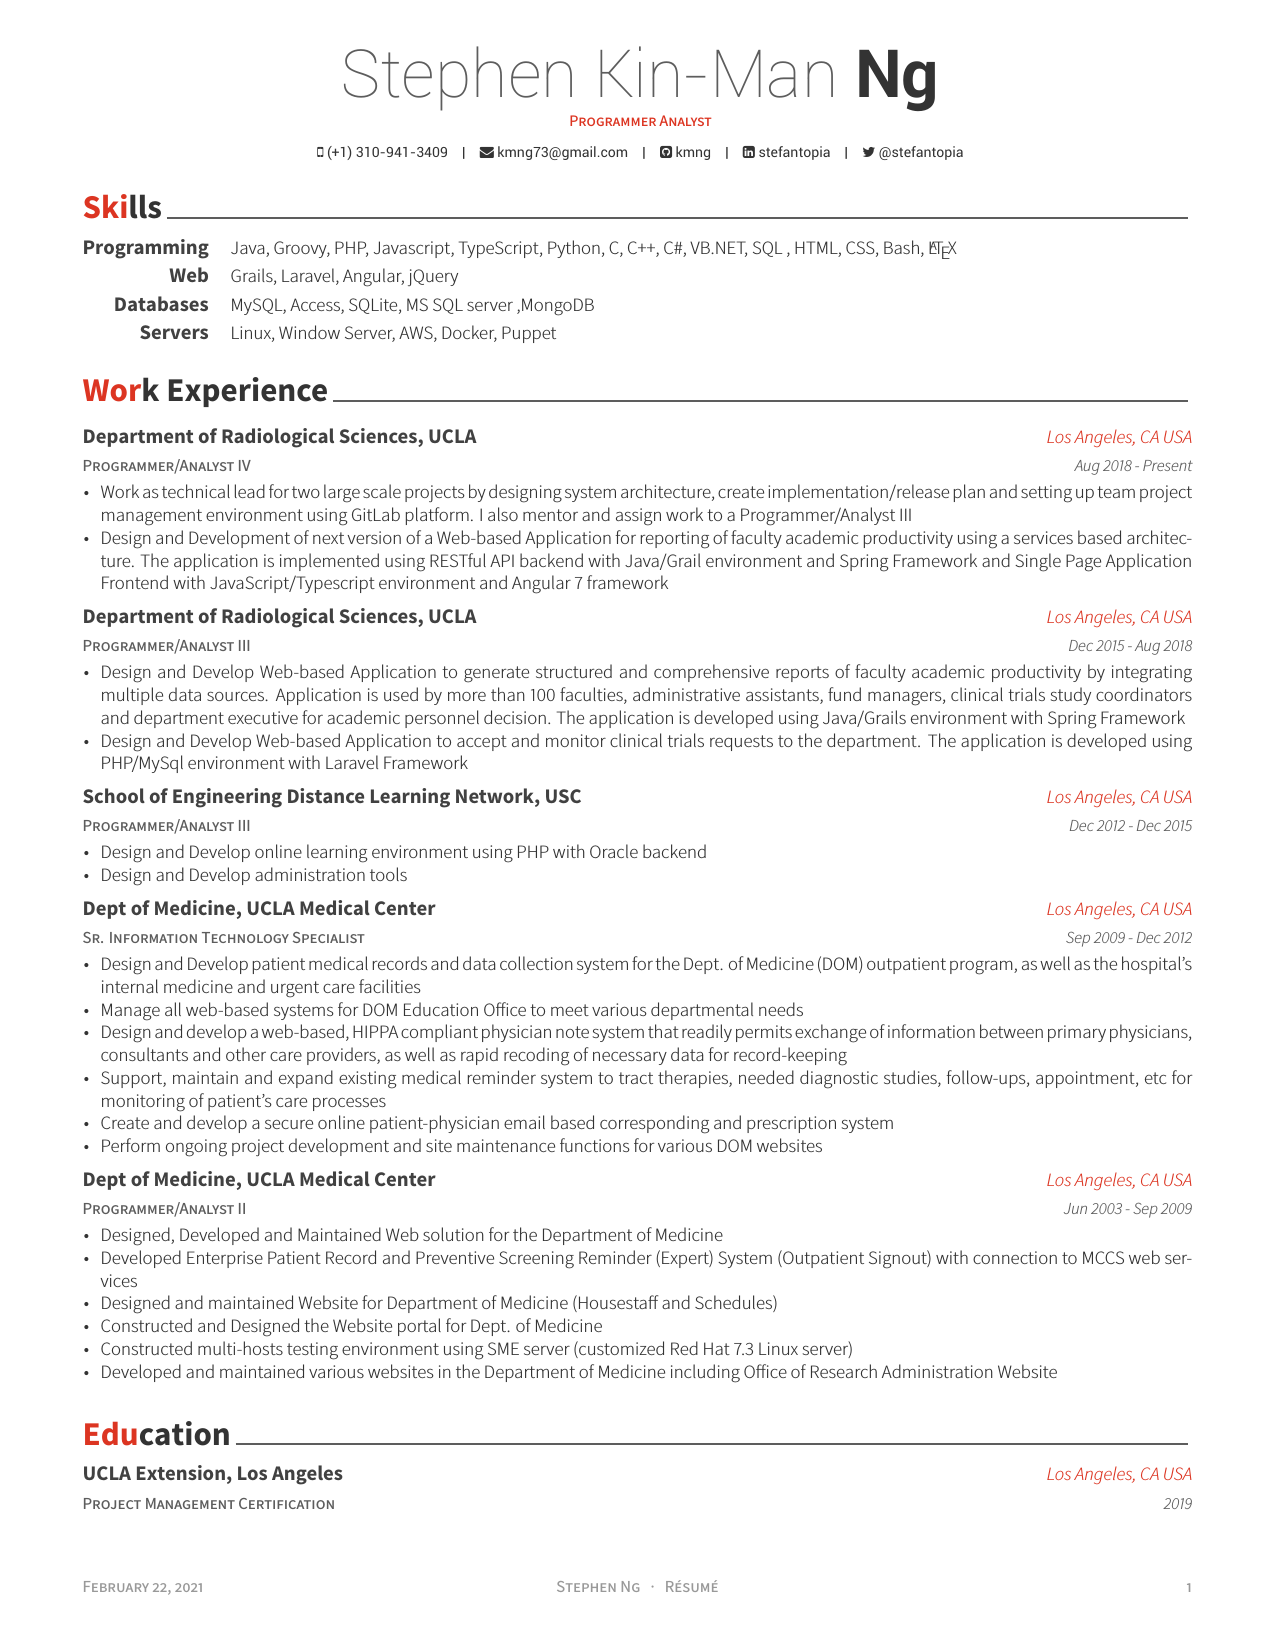
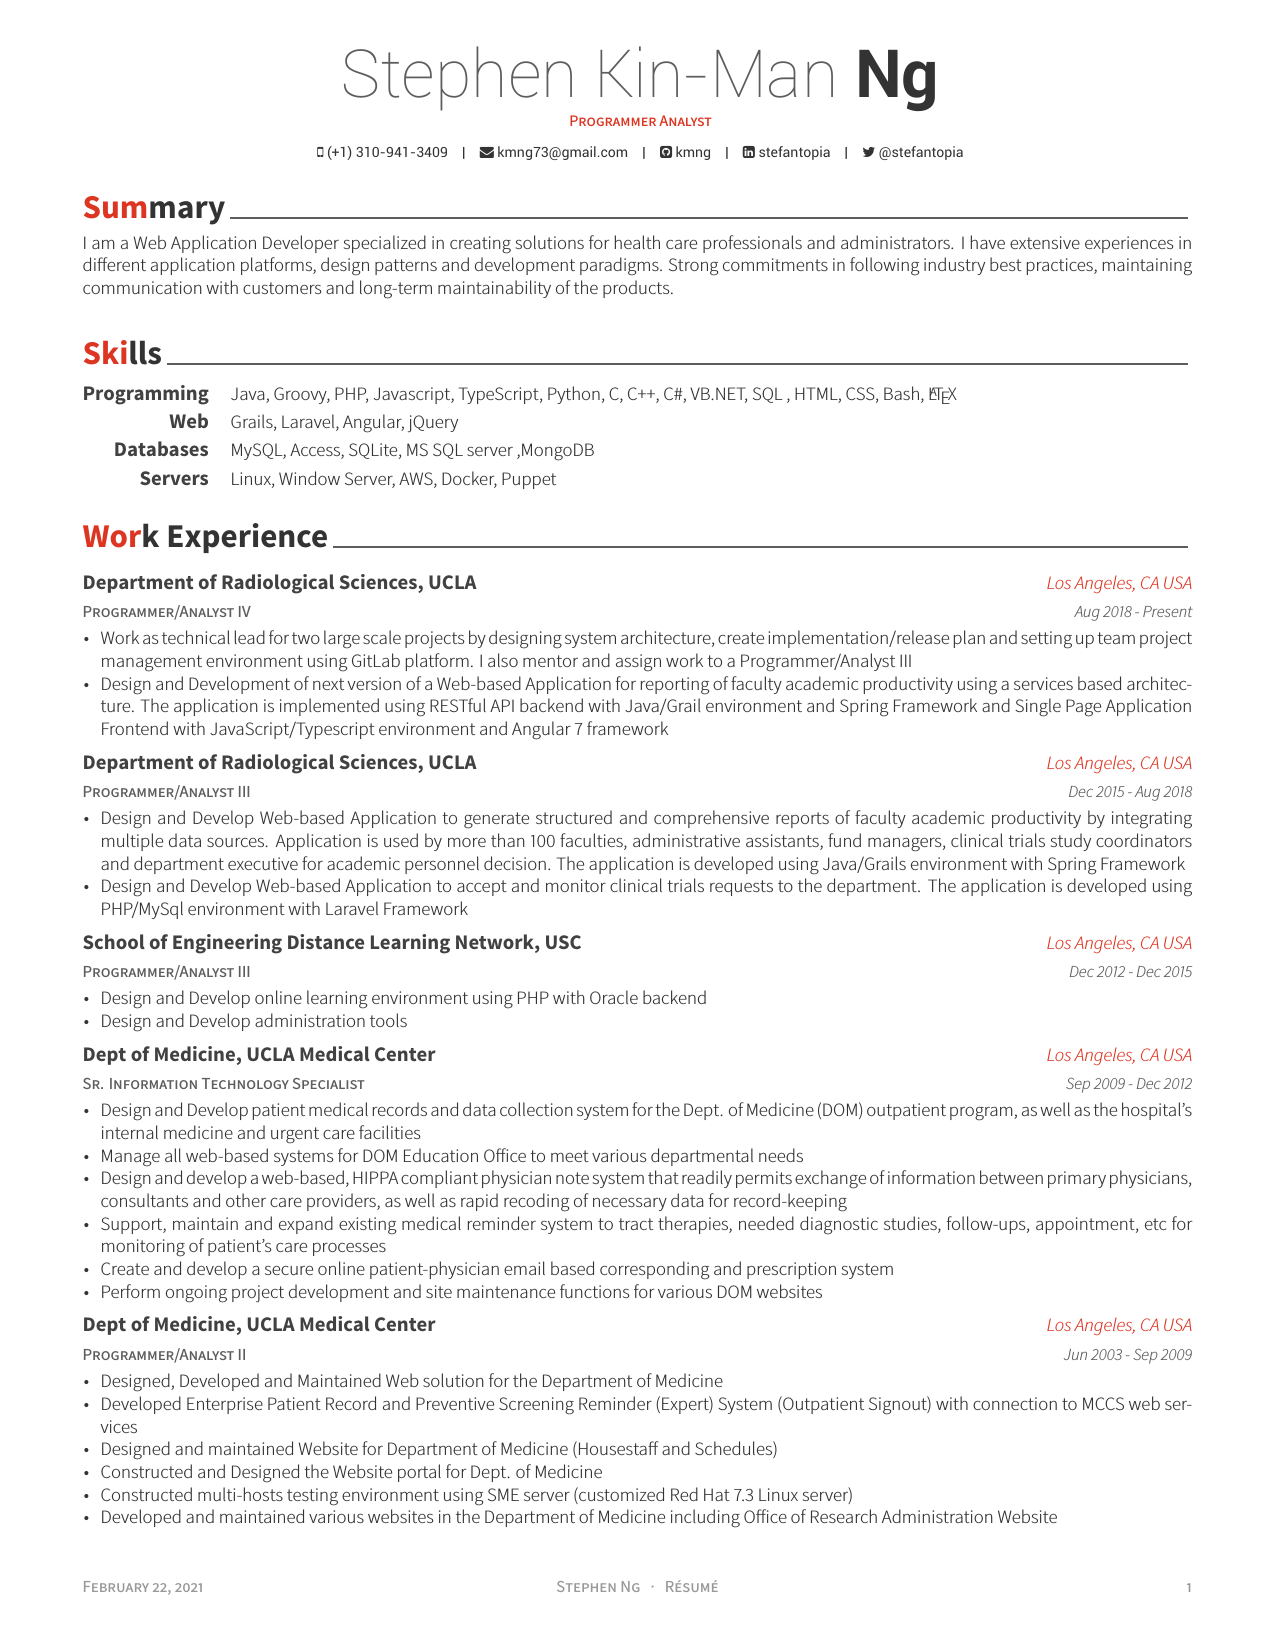
add summary section

diff --git a/myresume/resume/summary.tex b/myresume/resume/summary.tex
@@ -1,0 +1,14 @@
+%-------------------------------------------------------------------------------
+%	SECTION TITLE
+%-------------------------------------------------------------------------------
+\cvsection{Summary}
+
+
+%-------------------------------------------------------------------------------
+%	CONTENT
+%-------------------------------------------------------------------------------
+\begin{cvparagraph}
+
+%---------------------------------------------------------
+I am a Web Application Developer specialized in creating solutions for health care professionals and administrators. I have extensive experiences in different application platforms, design patterns and development paradigms. Strong commitments in following industry best practices, maintaining communication with customers and long-term maintainability of the products.
+\end{cvparagraph}

diff --git a/myresume/resume.tex b/myresume/resume.tex
@@ -91,6 +91,7 @@
 %	CV/RESUME CONTENT
 %	Each section is imported separately, open each file in turn to modify content
 %-------------------------------------------------------------------------------
+\input{resume/summary.tex}
 \input{resume/skill.tex}
 \input{resume/experience.tex}
 \input{resume/education.tex}
